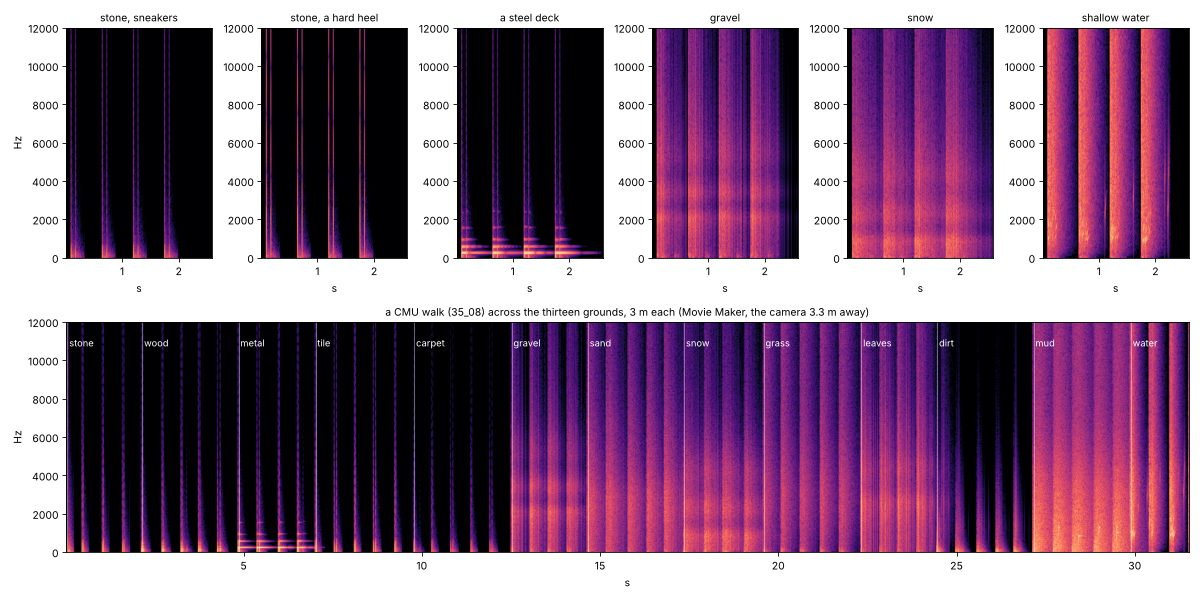
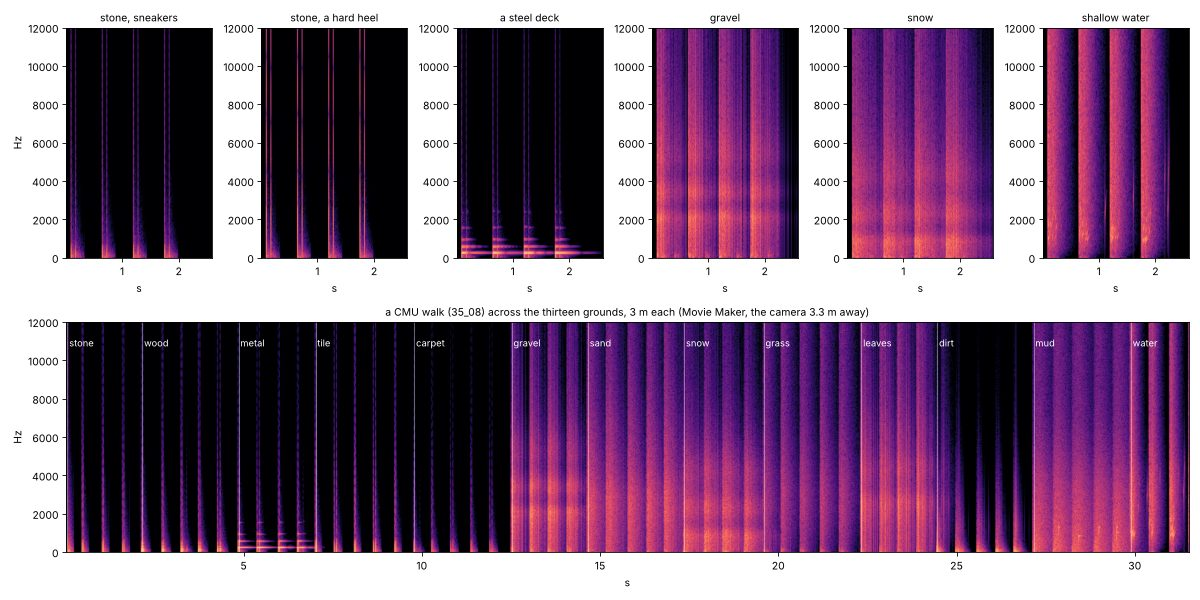
Milestone 181b: footsteps' ground balance
The owner heard mud and the steel deck far louder than the rest, and
they were: in the CMU walk a step on the deck was 19.5 LU over one on
stone (K-weighted energy), mud 18.6, water 17.6, the next (wood) 8.7.
Each ground's loudness had come from its own model alone.

A ground's level is now what it radiates, an output gain (the grains a
step crushes and their rate stay the step's), set against walking
measured binaurally on stone, wood, gravel and grass (Aletta et al.
2016; wood already matched) and the physics elsewhere: metal +12.0 LU,
mud +5.9, water +12.0, gravel +11.9 (was +8.0), grass -3.0 (was +3.8).
In the walk now: metal +11.9, gravel +9.0, wood +8.7, water +7.8, mud
+4.7, grass -6.5. footstep_sound.py measures each step's loudness.

Claude-Session: https://claude.ai/code/session_01PDotzLqwoxX6KP8dBCSrSE

diff --git a/modules/fellow_fluid/fellow_footsteps_3d.cpp b/modules/fellow_fluid/fellow_footsteps_3d.cpp
@@ -52,23 +52,26 @@ static _FORCE_INLINE_ float foot_soft_limit(float p_x) {
 }
 
 // The grounds: resonances (Hz, Q, gain), how hard (the click, the ring), the compression's thump, the grains (a
-// second at a walking step's energy, their Pareto exponent, level), how long the weight crushes, brushing.
+// second at a walking step's energy, their Pareto exponent, level), how long the weight crushes, brushing, and what
+// the ground radiates (milestone 181b, decision 0323: a step's K-weighted energy over a sneaker's on stone — wood
+// +8 dB and gravel well over it as walking measured binaurally, Aletta et al. 2016, grass under stone; a steel deck a
+// few dB over a wooden floor, its lower mobility against its lower damping; wading with gravel; mud under gravel).
 const FellowFootstepSynth::GroundInfo &FellowFootstepSynth::ground_info(int p_ground) {
 	static const GroundInfo infos[GROUND_MAX] = {
 		// name, loose, resonances (Hz, Q, gain), hardness, thump (Hz, level), grains (a second, Pareto, level), press, hiss, level
 		{ "stone", false, 1, { 900.0f }, { 2.0f }, { 0.3f }, 1.0f, 120.0f, 0.2f, 0.0f, 2.0f, 0.0f, 0.0f, 0.0f, 1.0f },
 		{ "wood", false, 5, { 95.0f, 165.0f, 290.0f, 470.0f, 820.0f }, { 5.0f, 7.0f, 9.0f, 8.0f, 6.0f }, { 0.5f, 0.4f, 0.3f, 0.22f, 0.15f }, 0.8f, 110.0f, 0.3f, 0.0f, 2.0f, 0.0f, 0.0f, 0.0f, 1.0f },
-		{ "metal", false, 5, { 230.0f, 560.0f, 930.0f, 1560.0f, 2380.0f }, { 60.0f, 90.0f, 80.0f, 100.0f, 90.0f }, { 1.0f, 0.8f, 0.7f, 0.5f, 0.4f }, 1.0f, 120.0f, 0.3f, 0.0f, 2.0f, 0.0f, 0.0f, 0.0f, 1.0f },
+		{ "metal", false, 5, { 230.0f, 560.0f, 930.0f, 1560.0f, 2380.0f }, { 60.0f, 90.0f, 80.0f, 100.0f, 90.0f }, { 1.0f, 0.8f, 0.7f, 0.5f, 0.4f }, 1.0f, 120.0f, 0.3f, 0.0f, 2.0f, 0.0f, 0.0f, 0.0f, 0.42f },
 		{ "tile", false, 2, { 1800.0f, 3100.0f }, { 6.0f, 8.0f }, { 0.6f, 0.5f }, 1.2f, 130.0f, 0.15f, 0.0f, 2.0f, 0.0f, 0.0f, 0.0f, 1.0f },
 		{ "carpet", false, 1, { 110.0f }, { 0.8f }, { 0.5f }, 0.12f, 90.0f, 0.12f, 0.0f, 2.0f, 0.0f, 0.0f, 0.0f, 1.0f },
-		{ "gravel", true, 3, { 2100.0f, 3400.0f, 5200.0f }, { 4.0f, 5.0f, 4.0f }, { 1.0f, 0.8f, 0.6f }, 0.0f, 140.0f, 0.3f, 1200.0f, 1.6f, 0.5f, 0.16f, 0.0f, 1.0f },
+		{ "gravel", true, 3, { 2100.0f, 3400.0f, 5200.0f }, { 4.0f, 5.0f, 4.0f }, { 1.0f, 0.8f, 0.6f }, 0.0f, 140.0f, 0.3f, 1200.0f, 1.6f, 0.5f, 0.16f, 0.0f, 1.58f },
 		{ "sand", true, 2, { 2800.0f, 5600.0f }, { 1.2f, 1.4f }, { 1.0f, 0.7f }, 0.0f, 110.0f, 0.2f, 4000.0f, 3.5f, 1.0f, 0.2f, 0.0f, 1.0f },
 		{ "snow", true, 3, { 900.0f, 2300.0f, 4100.0f }, { 1.8f, 2.5f, 3.0f }, { 1.0f, 0.8f, 0.5f }, 0.0f, 90.0f, 0.5f, 1800.0f, 2.2f, 0.7f, 0.24f, 0.0f, 1.0f },
-		{ "grass", true, 2, { 2500.0f, 5000.0f }, { 1.0f, 1.2f }, { 1.0f, 0.7f }, 0.0f, 120.0f, 0.25f, 2500.0f, 3.0f, 0.5f, 0.14f, 0.2f, 1.0f },
+		{ "grass", true, 2, { 2500.0f, 5000.0f }, { 1.0f, 1.2f }, { 1.0f, 0.7f }, 0.0f, 120.0f, 0.25f, 2500.0f, 3.0f, 0.5f, 0.14f, 0.2f, 0.46f },
 		{ "leaves", true, 3, { 2600.0f, 4400.0f, 6000.0f }, { 3.0f, 3.5f, 3.0f }, { 1.0f, 0.8f, 0.5f }, 0.0f, 120.0f, 0.25f, 500.0f, 1.4f, 0.9f, 0.22f, 0.12f, 1.0f },
 		{ "dirt", true, 1, { 1300.0f }, { 1.5f }, { 1.0f }, 0.0f, 110.0f, 1.0f, 200.0f, 2.0f, 0.4f, 0.1f, 0.0f, 1.0f },
-		{ "mud", true, 1, { 600.0f }, { 1.2f }, { 1.0f }, 0.0f, 80.0f, 0.9f, 80.0f, 2.0f, 0.2f, 0.2f, 0.0f, 1.0f },
-		{ "water", true, 0, {}, {}, {}, 0.0f, 90.0f, 0.3f, 0.0f, 2.0f, 0.0f, 0.1f, 0.0f, 1.0f },
+		{ "mud", true, 1, { 600.0f }, { 1.2f }, { 1.0f }, 0.0f, 80.0f, 0.9f, 80.0f, 2.0f, 0.2f, 0.2f, 0.0f, 0.2f },
+		{ "water", true, 0, {}, {}, {}, 0.0f, 90.0f, 0.3f, 0.0f, 2.0f, 0.0f, 0.1f, 0.0f, 0.32f },
 	};
 	return infos[CLAMP(p_ground, 0, int(GROUND_MAX) - 1)];
 }
@@ -144,16 +147,16 @@ void FellowFootstepSynth::_start(const Event &p_event, int p_ground, float p_wei
 	const FellowShoeInfo &si = shoe_info(p_event.shoe);
 	const float part = p_event.part == PART_HEEL ? 1.0f : (p_event.part == PART_BALL ? 0.55f : 0.3f);
 	const float speed = CLAMP(p_event.speed, 0.05f, 6.0f);
-	const float amp = FOOT_LEVEL * gi.level * Math::sqrt(MAX(p_event.load, 1.0f) / 75.0f) * (speed / 0.5f) * part * p_weight;
+	const float amp = FOOT_LEVEL * Math::sqrt(MAX(p_event.load, 1.0f) / 75.0f) * (speed / 0.5f) * part * p_weight;
 	if (p_event.part == PART_LIFT) {
 		// The toe leaving: loose ground kicked (a few grains), mud sucking, water dripping.
 		if (p_ground == GROUND_MUD) {
-			_bubble(p_event.delay + int(0.02f * rate), 0.004f + 0.003f * rng.randf(), amp * 6.0f, 3.0f);
+			_bubble(p_event.delay + int(0.02f * rate), 0.004f + 0.003f * rng.randf(), amp * 6.0f * gi.level, 3.0f);
 			stats.bubbles++;
 		} else if (p_ground == GROUND_WATER) {
 			const int n = 2 + int(rng.rand() % 3);
 			for (int i = 0; i < n; i++) {
-				_bubble(p_event.delay + int((0.05f + 0.3f * rng.randf()) * rate), 0.0006f + 0.0009f * rng.randf(), amp * 0.6f, 0.1f);
+				_bubble(p_event.delay + int((0.05f + 0.3f * rng.randf()) * rate), 0.0006f + 0.0009f * rng.randf(), amp * 0.6f * gi.level, 0.1f);
 				stats.bubbles++;
 			}
 			return;
@@ -206,7 +209,7 @@ void FellowFootstepSynth::_start(const Event &p_event, int p_ground, float p_wei
 		s.hiss_lp.set(7000.0f, rate);
 		const int n = 6 + int(rng.rand() % 8);
 		for (int i = 0; i < n; i++) {
-			_bubble(s.delay + int(0.08f * rng.randf() * rate), 0.0008f + 0.0032f * rng.randf(), amp * (0.2f + 0.4f * rng.randf()), 0.1f);
+			_bubble(s.delay + int(0.08f * rng.randf() * rate), 0.0008f + 0.0032f * rng.randf(), amp * (0.2f + 0.4f * rng.randf()) * gi.level, 0.1f);
 			stats.bubbles++;
 		}
 	}
@@ -301,7 +304,7 @@ void FellowFootstepSynth::render(float *r_left, float *r_right, int p_frames) {
 					x += s.amp * 2.5f * s.squelch * s.squelch_y;
 					s.squelch *= Math::exp(-1.0f / (0.15f * rate));
 				}
-				L[i] += x;
+				L[i] += x * gi.level;
 			}
 			for (int r = 0; r < s.nres; r++) {
 				if (Math::abs(s.res[r].y1) + Math::abs(s.res[r].y2) < 1e-15f) {
@@ -389,7 +392,7 @@ void FellowFootstepSynth::render(float *r_left, float *r_right, int p_frames) {
 					squeak_phase += float(Math::TAU) * squeak_f * (1.0f + 0.02f * Math::sin(vibrato)) * dt;
 					x += FOOT_LEVEL * 0.15f * squeak_env * (Math::sin(squeak_phase) + 0.4f * Math::sin(2.0f * squeak_phase) + 0.15f * Math::sin(3.0f * squeak_phase));
 				}
-				L[i] += x;
+				L[i] += x * gi.level;
 			}
 		} else {
 			squeak_env = 0.0f;

diff --git a/benchmarks/tools/world_sound/footstep_sound.py b/benchmarks/tools/world_sound/footstep_sound.py
@@ -1,8 +1,10 @@
 #!/usr/bin/env python3
 """FellowEngine's footsteps (milestone 181, decision 0323): measures the cases footstep_sound.gd rendered.
 
-* each ground (four walking steps, sneakers, 75 kg): the peak and loudness (dBFS at a metre), the spectral centroid,
-  the share of the sound under 300 Hz, 300 Hz-2 kHz, 2-6 kHz and over 6 kHz, the grains and bubbles a step;
+* each ground (four walking steps, sneakers, 75 kg): the peak and RMS (dBFS at sound_unit_size), a step's loudness
+  against a step on stone (its K-weighted energy, ITU-R BS.1770's filter: the grounds' balance, milestone 181b), the
+  spectral centroid, the share of the sound under 300 Hz, 300 Hz-2 kHz, 2-6 kHz and over 6 kHz, the grains and
+  bubbles a step;
 * the shoes on stone and wood: the centroid, the share over 2 kHz (the click);
 * sneaking, walking, running and landing on stone and gravel: their peaks against walking's;
 * a light (50 kg) and a heavy (100 kg) walker on gravel; grass over dirt;
@@ -69,6 +71,33 @@ def describe(x, rate):
     }
 
 
+def _biquad(b, a, x):
+    try:
+        from scipy.signal import lfilter
+
+        return lfilter(b, a, x)
+    except ImportError:
+        y = np.zeros_like(x)
+        x1 = x2 = y1 = y2 = 0.0
+        for i, v in enumerate(x):
+            o = b[0] * v + b[1] * x1 + b[2] * x2 - a[1] * y1 - a[2] * y2
+            x2, x1, y2, y1 = x1, v, y1, o
+            y[i] = o
+        return y
+
+
+def step_loudness(x, rate, steps, period=0.55, start=0.1):
+    """A step's loudness (LUFS-like): its K-weighted energy (BS.1770's filter at 48 kHz) over a second, the mean over the steps."""
+    k = _biquad([1.53512485958697, -2.69169618940638, 1.19839281085285], [1.0, -1.69065929318241, 0.73248077421585], x)
+    k = _biquad([1.0, -2.0, 1.0], [1.0, -1.99004745483398, 0.99007225036621], k)
+    e = []
+    for i in range(steps):
+        a = int((start + period * i - 0.01) * rate)
+        b = int((start + period * (i + 1) - 0.01) * rate)
+        e.append(10 * np.log10(np.sum(k[a:b] ** 2) / rate + 1e-30) - 0.691)
+    return float(np.mean(e))
+
+
 def squeak(x, rate):
     n = 8192
     seg = x[: (len(x) // n) * n].reshape(-1, n)
@@ -91,10 +120,16 @@ def main():
         rep["cpu"][name] = c["usec_per_second"]
     for g in GROUNDS:
         c = cases["walk_" + g]
-        r = describe(load(d, "walk_" + g), rate)
+        x = load(d, "walk_" + g)
+        r = describe(x, rate)
+        r["step_loudness"] = step_loudness(x, rate, c["steps"])
         r["grains_per_step"] = c["grains"] / c["steps"]
         r["bubbles_per_step"] = c["bubbles"] / c["steps"]
         rep["grounds"][g] = r
+    for g in GROUNDS:
+        rep["grounds"][g]["over_stone_lu"] = (
+            rep["grounds"][g]["step_loudness"] - rep["grounds"]["stone"]["step_loudness"]
+        )
     rep["grounds"]["grass over dirt"] = describe(load(d, "grass_over_dirt"), rate)
     for s, shoe in enumerate(SHOES):
         for g in ("stone", "wood"):
@@ -120,11 +155,13 @@ def main():
         rep["scuff"][name] = r
     json.dump(rep, open(os.path.join(d, "report.json"), "w"), indent=1)
 
-    print("grounds (four walking steps, sneakers, 75 kg; at a metre):")
+    print("grounds (four walking steps, sneakers, 75 kg; at sound_unit_size):")
     for g, r in rep["grounds"].items():
         extra = ""
+        if "over_stone_lu" in r:
+            extra += ", a step %+5.1f LU over stone's" % r["over_stone_lu"]
         if "grains_per_step" in r:
-            extra = ", %.0f grains, %.0f bubbles a step" % (r["grains_per_step"], r["bubbles_per_step"])
+            extra += ", %.0f grains, %.0f bubbles a step" % (r["grains_per_step"], r["bubbles_per_step"])
         print(
             "  %-15s peak %6.1f dBFS, RMS %6.1f, centroid %5.0f Hz, under 300 Hz %3.0f %%, to 2 kHz %3.0f %%, to 6 kHz %3.0f %%, over %3.0f %%%s"
             % (

diff --git a/modules/fellow_fluid/fellow_footsteps_3d.h b/modules/fellow_fluid/fellow_footsteps_3d.h
@@ -110,7 +110,7 @@ public:
 		float grain_level;
 		float press; // s: how long the weight keeps crushing
 		float hiss; // brushing (grass, leaves)
-		float level; // the ground's loudness
+		float level; // what the ground radiates (an output gain; milestone 181b: the grounds' balance)
 	};
 	static const GroundInfo &ground_info(int p_ground);
 

diff --git a/docs/decisions/0323-footsteps.md b/docs/decisions/0323-footsteps.md
@@ -57,28 +57,29 @@ The synthesis (`FellowFootstepSynth`, one placed voice for the character):
 ## Measurements
 
 `footstep_sound.gd` + `footstep_sound.py` (48 kHz, offline; four walking steps: the heel at 0.5 m/s, the ball 80 ms
-later, the toe; sneakers, 75 kg; heard so at `sound_unit_size`, 3 m: a third-person camera's distance):
+later, the toe; sneakers, 75 kg; heard so at `sound_unit_size`, 3 m: a third-person camera's distance; a step's
+loudness is its K-weighted energy, ITU-R BS.1770's filter, against a step on stone):
 
-| ground | peak | spectral centroid | under 300 Hz / 0.3-2 kHz / 2-6 kHz / over 6 kHz | grains (bubbles) a step |
-|---|---:|---:|---|---:|
-| stone | −26.7 dBFS | 204 Hz | 77 / 23 / 0 / 0 % | — |
-| wood | −22.3 | 102 | 98 / 2 / 0 / 0 | — |
-| metal deck | −18.0 | 229 | 96 / 4 / 0 / 0 | — |
-| tile | −26.1 | 210 | 77 / 22 / 0 / 0 | — |
-| carpet | −40.4 | 128 | 88 / 11 / 0 / 0 | — |
-| gravel | −15.6 | 2 341 | 11 / 38 / 47 / 4 | 316 |
-| sand | −26.1 | 3 140 | 7 / 32 / 49 / 12 | 1 320 |
-| snow | −17.8 | 1 176 | 21 / 60 / 18 / 1 | 688 |
-| grass | −30.0 | 6 413 | 16 / 13 / 31 / 40 | 574 |
-| dry leaves | −11.2 | 3 325 | 6 / 25 / 58 / 11 | 182 |
-| dirt | −32.3 | 127 | 94 / 6 / 0 / 0 | 37 |
-| mud | −18.7 | 1 430 | 16 / 72 / 8 / 4 | 26 (1) |
-| water | −15.4 | 6 341 | 0 / 37 / 25 / 38 | (21) |
+| ground | peak | a step over stone's | spectral centroid | under 300 Hz / 0.3-2 kHz / 2-6 kHz / over 6 kHz | grains (bubbles) a step |
+|---|---:|---:|---:|---|---:|
+| stone | −26.7 dBFS | 0 LU | 204 Hz | 77 / 23 / 0 / 0 % | — |
+| wood | −22.3 | +7.8 | 102 | 98 / 2 / 0 / 0 | — |
+| metal deck | −25.6 | +12.0 | 229 | 96 / 4 / 0 / 0 | — |
+| tile | −26.1 | +0.5 | 210 | 77 / 22 / 0 / 0 | — |
+| carpet | −40.4 | −13.5 | 128 | 88 / 11 / 0 / 0 | — |
+| gravel | −11.6 | +11.9 | 2 341 | 11 / 38 / 47 / 4 | 316 |
+| sand | −26.1 | +6.8 | 3 140 | 7 / 32 / 49 / 12 | 1 320 |
+| snow | −17.8 | +8.5 | 1 176 | 21 / 60 / 18 / 1 | 688 |
+| grass | −36.8 | −3.0 | 6 413 | 16 / 13 / 31 / 40 | 574 |
+| dry leaves | −11.2 | +11.1 | 3 325 | 6 / 25 / 58 / 11 | 182 |
+| dirt | −32.3 | −0.9 | 127 | 94 / 6 / 0 / 0 | 37 |
+| mud | −32.7 | +5.9 | 1 430 | 16 / 72 / 8 / 4 | 26 (1) |
+| water | −25.3 | +12.0 | 6 341 | 0 / 37 / 25 / 38 | (21) |
 
 * **Shoes** on stone: a sneaker 204 Hz, a boot 508, a hard heel 2 229 (36 % over 2 kHz: the click, 11 dB louder than
   a sneaker), bare feet 121.
-* **Gaits** (against walking): sneaking −9.7 dB on stone, −9.4 on gravel; running +11.4 and +9.7; landing from a
-  jump +20.0 and +15.4.
+* **Gaits** (against walking, peaks): sneaking −9.7 dB on stone, −9.4 on gravel; running +11.4 and +9.5; landing from
+  a jump +20.0 and +11.6 (on gravel the voice's soft limiter: the landing reaches full scale at 3 m).
 * **Weight**: 100 kg on gravel 6.1 dB over 50 kg (each step's energy with the root of the weight, the grains it
   crushes and their strength with it).
 * **Scuffing** on wood: a sneaker's squeak 10 dB over the spectrum round it (2.06 kHz), a boot's 5 dB (no squeak).
@@ -91,11 +92,13 @@ later, the toe; sneakers, 75 kg; heard so at `sound_unit_size`, 3 m: a third-per
 lavapipe, 31.5 s; the camera 3.3 m away): every step found — 58, 3-5 on each ground — one every 0.535 s (median;
 0.43-0.60, each foot's stride 1.00-1.14 s), the heel coming down at 0.30-0.34 m/s; the sound within a frame of the
 foot (its onset 18 ms before the frame that reports it, the median). Each ground's steps there (median peak, the
-step's centroid): stone −36.3 dBFS 169 Hz, wood −31.4 104 Hz, metal −26.8 237 Hz, tile −35.6 198 Hz, carpet −50.3
-102 Hz, gravel −33.8 1.9 kHz, sand −39.2 2.1 kHz, snow −32.7 1.0 kHz, grass −43.1 2.8 kHz, leaves −24.7 2.3 kHz,
-dirt −42.3 88 Hz, mud −28.7 1.1 kHz, water −28.0 2.3 kHz; 4.0 ms of the audio thread a second. With `--terrain`
-(headless) over a FellowTerrain3D whose grass layer blends into gravel over ten metres: grass with 10 % gravel, then
-50 %, then gravel with grass 40 % down to 10 % — 18 steps on grass, 16 on gravel.
+step's centroid, its loudness over a step on stone's): stone −36.3 dBFS 169 Hz, wood −31.4 104 Hz +8.7 LU, metal −34.4
+237 Hz +11.9, tile −35.6 198 Hz +1.1, carpet −50.3 102 Hz −12.8, gravel −29.9 1.9 kHz +9.0, sand −39.2 2.1 kHz +4.7,
+snow −32.7 1.0 kHz +6.6, grass −49.8 2.7 kHz −6.5, leaves −24.7 2.3 kHz +8.2, dirt −42.3 88 Hz +1.1, mud −42.7 1.1 kHz
++4.7, water −38.0 2.3 kHz +7.8 (milestone 181b's balance; before it metal +19.5, mud +18.6, water +17.6); 4.1 ms of
+the audio thread a second. With `--terrain` (headless) over a FellowTerrain3D whose grass layer blends into gravel
+over ten metres: grass with 10 % gravel, then 50 %, then gravel with grass 40 % down to 10 % — 18 steps on grass, 16
+on gravel.
 
 ## How it got there
 
@@ -112,6 +115,19 @@ dirt −42.3 88 Hz, mud −28.7 1.1 kHz, water −28.0 2.3 kHz; 4.0 ms of the au
 * In the walk the steps came late or not at all, in pairs at the loop: CMU's soles stand 3-5 cm over the ground
   (`contact_height` 0.05 for it, 0.04 by default), a swinging foot passing as low counted as down (a touch must be
   planted), and the second point of a foot down had made its strike a roll (a foot's state, not each point's).
+* **Milestone 181b, the grounds' balance** (the owner's ear: mud and metal much louder than the rest). Each ground's
+  loudness had come from its own model alone: in the walk a step on the steel deck was 19.5 LU over one on stone, in
+  mud 18.6, in water 17.6, the next wood's 8.7 — offline the same (+19.5, +19.9, +21.9: the deck's plate ringing at
+  Q 60-100, mud's squelch broad and 0.35 s long, the splash's bubbles). A ground's level is now what it radiates, an
+  output gain (the grains it crushes and their rate stay the step's), set against the one measurement found of walking
+  on different grounds (Aletta, Kang, Fuda, Astolfi 2016, *J. Environ. Eng. Landsc. Manag.* 24(3): binaural, 2 steps
+  a second: stone 40.1 dB(A), wood 48.6, gravel 66.1, grass 28.5) and the physics where it has none: wood +7.8 LU over
+  stone already (measured: +8.5); gravel 1.58 (+8.0 → +11.9: the loudest there, here kept with the deck, the water and
+  dry leaves); grass 0.46 (+3.8 → −3.0: under stone, not as far); the steel deck 0.42 (+12.0: a few dB over a wooden
+  floor — an 8 mm plate's point mobility 2.4 times lower than 22 mm boards', its loss factor ten times lower, so more
+  of what it takes in radiates); water 0.32 (+12.0, wading with gravel); mud 0.20 (+5.9, under gravel: the squelch is
+  the mud's air and water pushed out). The top and bottom of walking's grounds (carpet aside) 25 LU apart before, 15
+  now. A landing on gravel now meets the voice's soft limiter (+11.6 dB over walking's peak, not +15.4).
 
 ## Decision
 

diff --git a/docs/fellow_milestone181_report.md b/docs/fellow_milestone181_report.md
@@ -46,7 +46,30 @@ across the thirteen grounds (each ground's first step labelled).
   whose grass blends into gravel.
 * `clang-format`, the class reference (`xmllint`, `make_rst.py --dry-run`, the doctool's signatures).
 
-## 3. Next
+## 3. Milestone 181b: the grounds' balance
+
+The owner heard mud and the steel deck far louder than the rest, and they were: in the walk a step on the deck was
+19.5 LU over one on stone (K-weighted energy), in mud 18.6, in water 17.6, the next (wood) 8.7. Each ground's level
+had come from its model alone (the deck ringing at Q 60-100, mud's squelch broad and 0.35 s long). A ground's level is
+now an output gain set against walking measured binaurally on stone, wood, gravel and grass (Aletta et al. 2016:
+wood 8.5 dB(A) over stone — the model already had 7.8 — gravel 26 over, grass 11.6 under) and the physics where
+nothing was measured:
+
+| a step over stone's (LU) | before | 181b |
+|---|---:|---:|
+| metal deck | +19.5 | +12.0 |
+| mud | +19.9 | +5.9 |
+| water | +21.9 | +12.0 |
+| gravel | +8.0 | +11.9 |
+| grass | +3.8 | −3.0 |
+| wood, tile, carpet, sand, snow, leaves, dirt | unchanged | +7.8, +0.5, −13.5, +6.8, +8.5, +11.1, −0.9 |
+
+In the walk again (Movie Maker, the camera 3.3 m away), a step over a step on stone: metal +11.9 LU, gravel +9.0, wood
++8.7, leaves +8.2, water +7.8, snow +6.6, sand +4.7, mud +4.7, tile and dirt +1.1, grass −6.5, carpet −12.8 — the
+deck, mud and water no longer 10 dB over everything. A landing on gravel now meets the voice's soft limiter (full
+scale at 3 m).
+
+## 4. Next
 
 * By ear: the owner's notes tune the grounds and levels.
 * The showcase's climber hearing its own steps on the roofs (tiles, stone) — on the RTX when the queue runs again.

diff --git a/FELLOWENGINE_CHANGELOG.md b/FELLOWENGINE_CHANGELOG.md
@@ -21,8 +21,12 @@ Godot's own changelog (the upstream 4.7.2 changes) is [CHANGELOG.md](CHANGELOG.m
   (splash, drips).
 - `FellowContactSound3D.surface` and `get_ground()`; `FellowTerrainLayer.surface` (a terrain's layers mixed by their
   weights under the foot); a collider's `fellow_surface` metadata.
-- `benchmarks/tools/world_sound/footstep_sound.gd` + `footstep_sound.py`; `benchmarks/tools/foot_placement/footsteps_demo.gd`
-  (a CMU walk across the grounds, `--terrain`).
+- `benchmarks/tools/world_sound/footstep_sound.gd` + `footstep_sound.py`;
+  `benchmarks/tools/foot_placement/footsteps_demo.gd` (a CMU walk across the grounds, `--terrain`).
+- 181b, the grounds' balance (the owner's ear: mud and the steel deck far louder than the rest): a ground's level is
+  what it radiates, set against walking measured on stone, wood, gravel and grass (Aletta et al. 2016) and the
+  physics elsewhere — a step over a step on stone (K-weighted): metal +19.5 → +12.0 LU, mud +19.9 → +5.9, water
+  +21.9 → +12.0, gravel +8.0 → +11.9, grass +3.8 → −3.0; `footstep_sound.py` measures it.
 
 ## Milestone 180 — bodies' contact sound: modal synthesis (2026-11-23)
 
